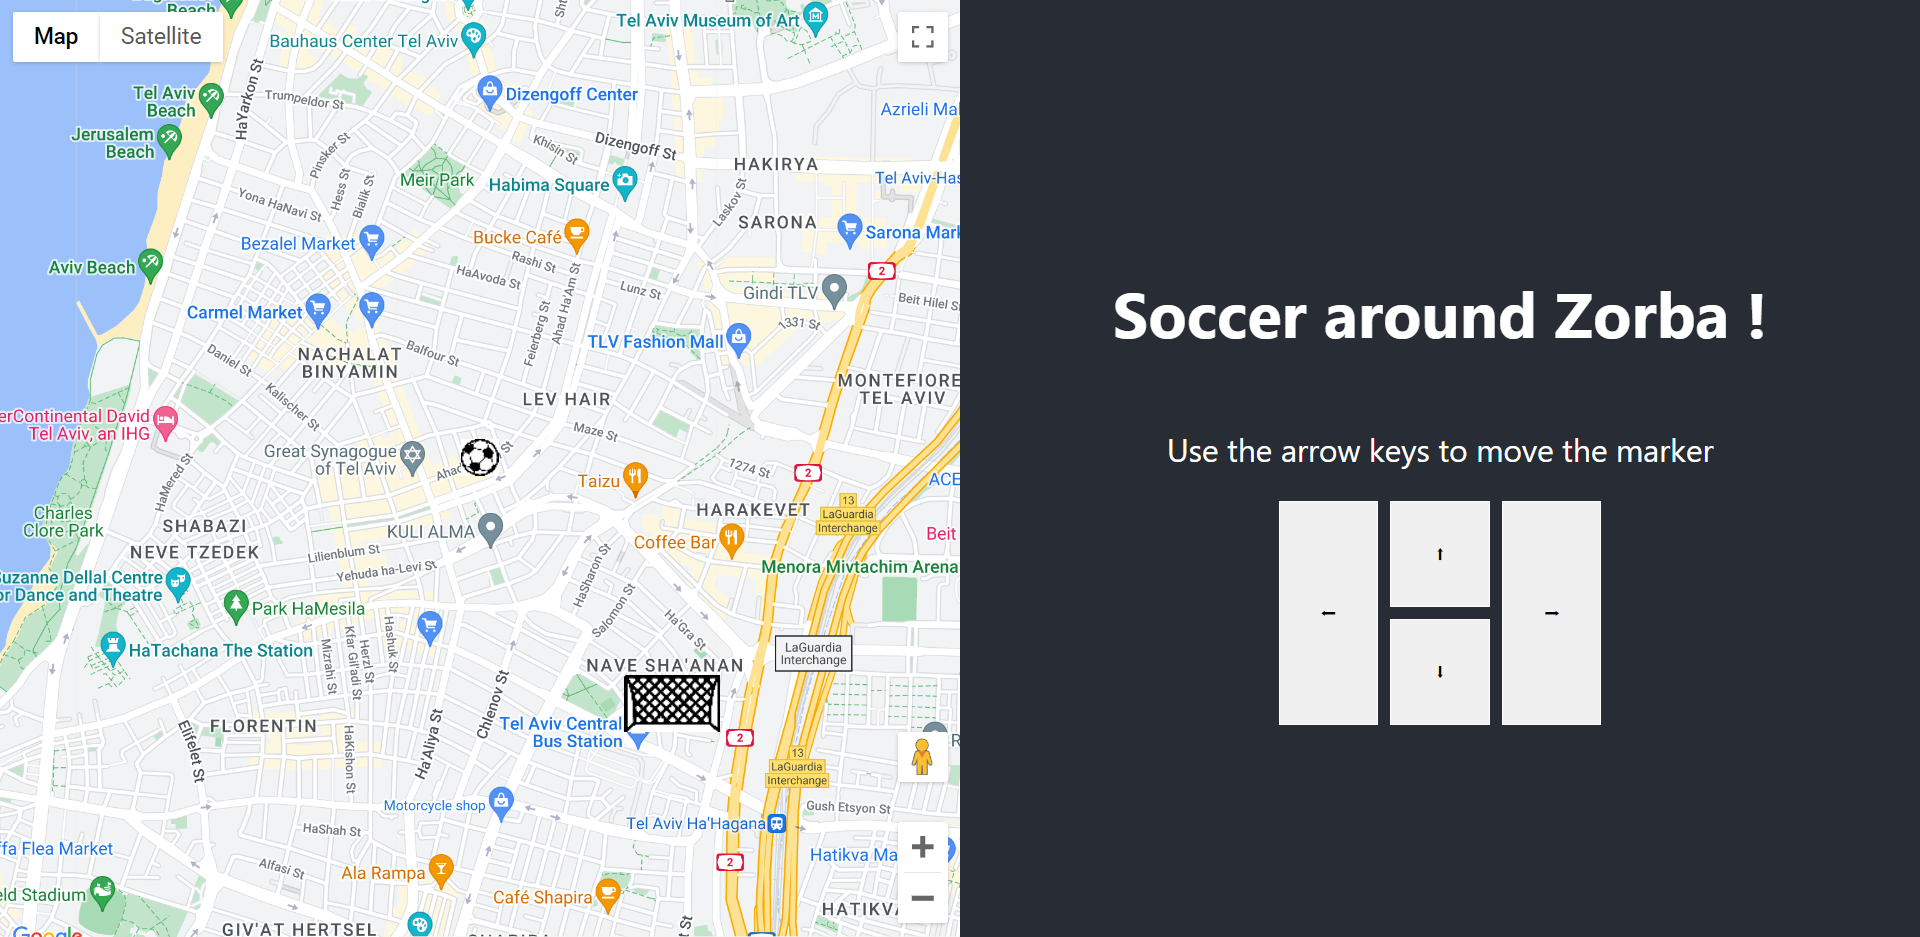
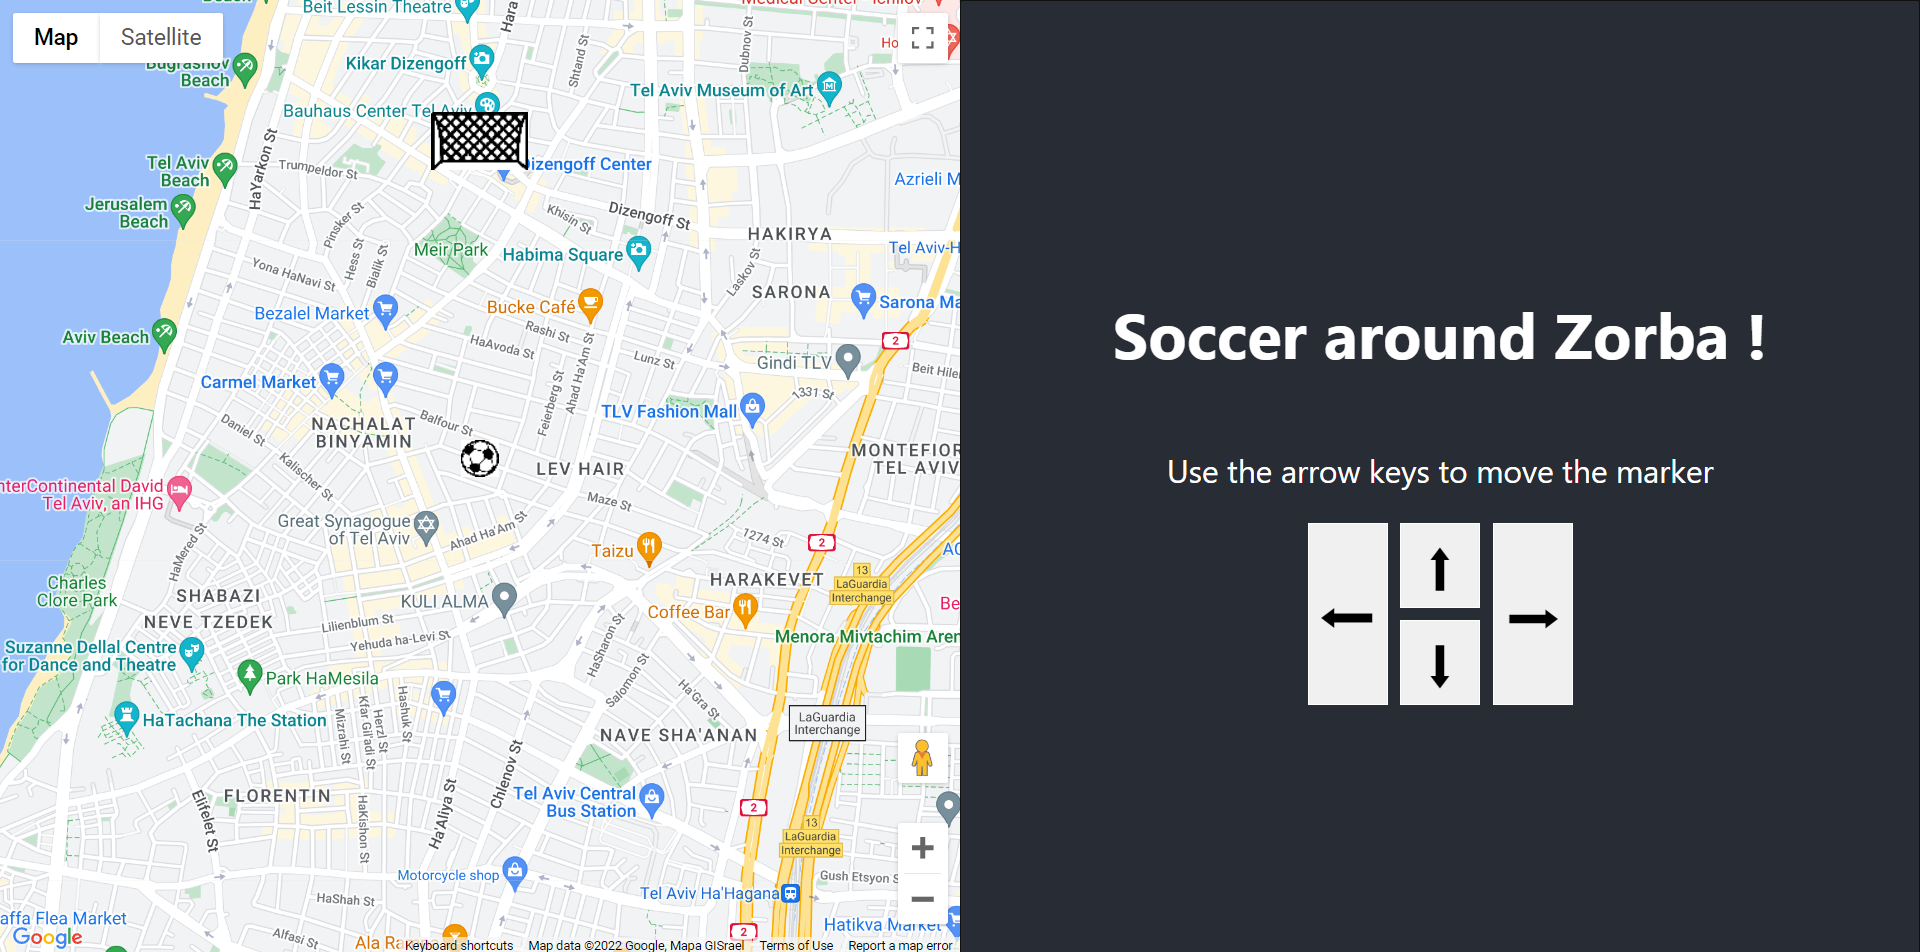
screenshot new

diff --git a/front/src/App.scss b/front/src/App.scss
@@ -46,7 +46,7 @@ body {
     height: 100%;
     width: 100%;
     border: 1px solid white;
-    padding: 2rem;
+    font-size: 3rem;
     cursor: pointer;
     &[data-button-left], &[data-button-right] {
       grid-row: 1 / -1;
